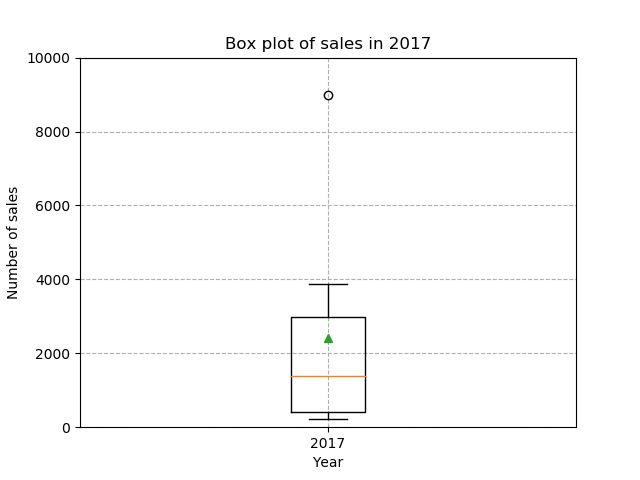
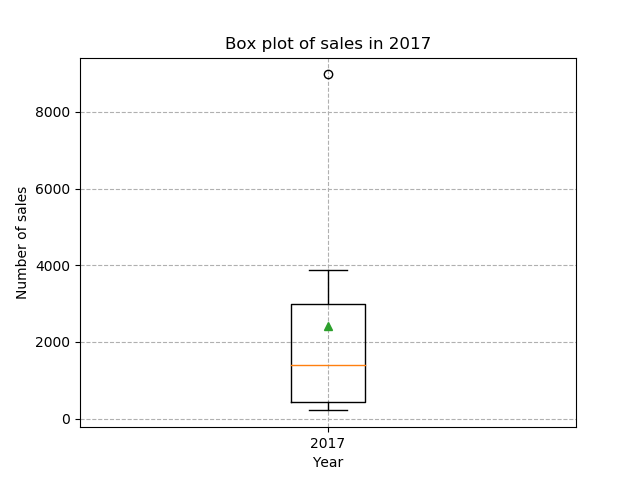
20201026 12:00

diff --git a/script/getCircleCastData.py b/script/getCircleCastData.py
@@ -1,0 +1,38 @@
+# _*_ coding: utf-8 _*_
+
+import pandas as pd
+import numpy as np
+import matplotlib.pyplot as plt
+import datetime as dt
+import collections
+
+data = pd.read_csv("../data/raw_data.csv", index_col='id')
+data['date'] = pd.to_datetime(data['date'])
+
+# 空データの生成
+f = open('../log/getCircleCastData.txt', mode='w')
+
+# サークル出現数の閾値
+circle_n_thr = 3
+
+# サークル出現数の記述
+title = ("サークル出現数(>= " + str(circle_n_thr) + ")：")
+info = (str(data['circle'][data['circle'].map(data['circle'].value_counts() >= circle_n_thr)].value_counts()))
+print(title + "\n" + info)
+f.write(title + "\n" + info)
+
+# 調査対象の声優を排除する
+exc_cast = "砂糖しお"
+
+spl_cast = data['cast'].str.split(',', expand=True)
+
+castData = None
+for clnm in spl_cast:
+    spl_cast.loc[spl_cast[clnm] == exc_cast] = None
+    castData = pd.concat([castData, spl_cast[clnm]])
+
+title = ("声優出現数(exclude " + exc_cast + ")")
+info = str(castData.value_counts())
+print("\n" + title + "\n" + info)
+f.write("\n\n" + title + "\n" + info)
+f.close()

diff --git a/script/getBoxplot_by_year.py b/script/getBoxplot_by_year.py
@@ -23,7 +23,11 @@ while True:
     
     # ここから年毎に別々の図にまとめて出力する処理
     fig, axes = plt.subplots()
-    plt.ylim([0,10000])
+
+    # 表示範囲の設定
+    # 外れ値が大きすぎるときに設定すること
+    #plt.ylim([0,10000])
+    
     plt.title('Box plot of sales in ' + str(thisYear))
     plt.xlabel('Year')
     plt.ylabel('Number of sales')
@@ -48,9 +52,12 @@ plt.title('Box plot of sales by year')
 
 # 表示範囲の設定
 # 外れ値が大きすぎるときに設定すること
-#plt.ylim([0, 6000])
-
+plt.ylim([0, 10000])
 plt.xlabel('Year')
 plt.ylabel('Number of Sales')
 plt.boxplot(filtered_data, showmeans=True)
+
+# x軸のラベル
+axes.set_xticklabels(['2016','2017','2018','2019','2020'])
+
 plt.savefig("../fig/Boxplot_by_year.png")

diff --git a/script/getDescribe_by_year.py b/script/getDescribe_by_year.py
@@ -11,8 +11,7 @@ data['date'] = pd.to_datetime(data['date'])
 thisYear = int(data['date'].max().strftime('%Y'))
 
 # 空データを生成する
-with open('../log/getDescribe_by_year.txt', mode='w') as f:
-    	print("")
+f = open('../log/getDescribe_by_year.txt', mode='w')
 
 # このスクリプトは年毎の要約統計量を得るためのものです．
 while True:
@@ -24,8 +23,8 @@ while True:
     print(data_by_y.describe())
     print("")
     
-    with open('../log/getDescribe_by_year.txt', mode='a') as f:
-    	f.write(str(thisYear) + "年：\n")
-    	f.write(str(data_by_y.describe()) + "\n\n")
+    f.write(str(thisYear) + "年：\n")
+    f.write(str(data_by_y.describe()) + "\n\n")
     	
     thisYear = thisYear - 1
+f.close()

diff --git a/script/getTagData.py b/script/getTagData.py
@@ -1,0 +1,9 @@
+# _*_ coding: utf-8 _*_
+
+import pandas as pd
+import numpy as np
+import matplotlib.pyplot as plt
+import datetime as dt
+
+data = pd.read_csv("../data/raw_data.csv", index_col='id')
+data['date'] = pd.to_datetime(data['date'])
